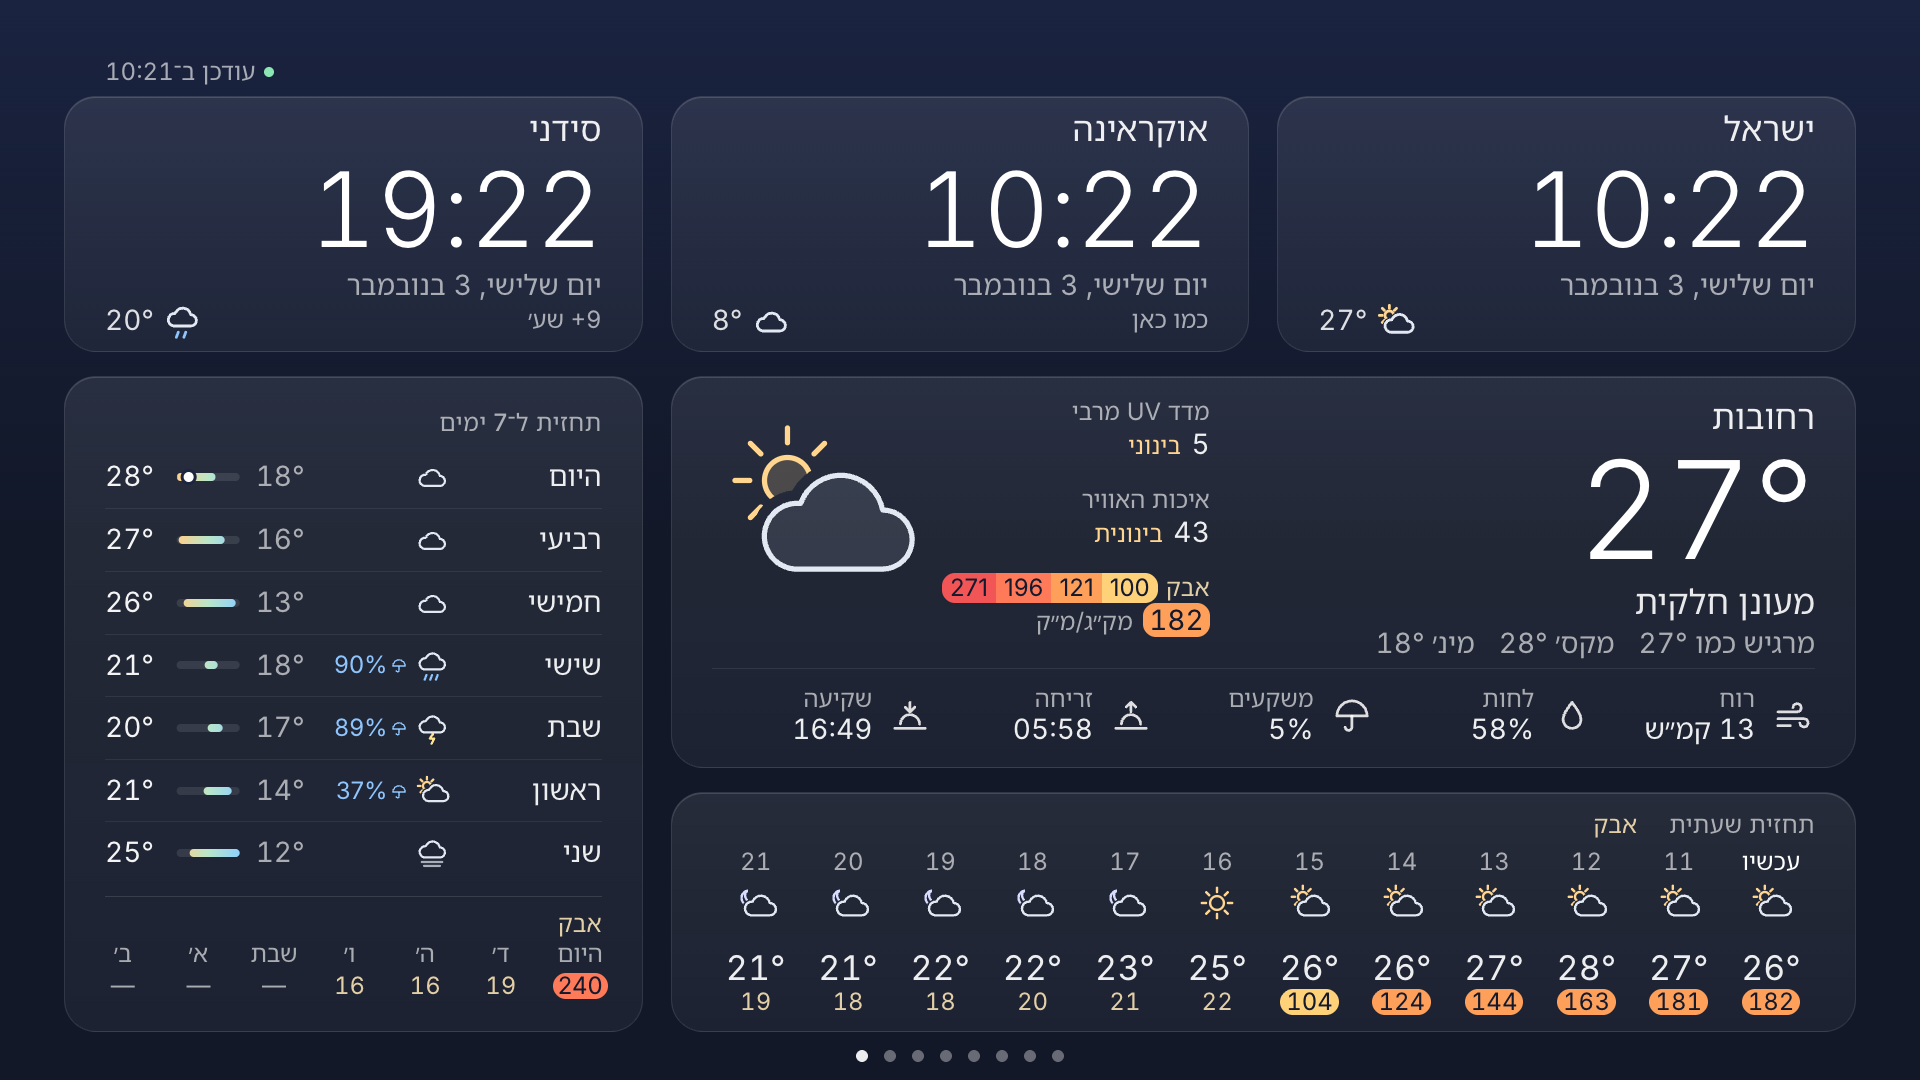
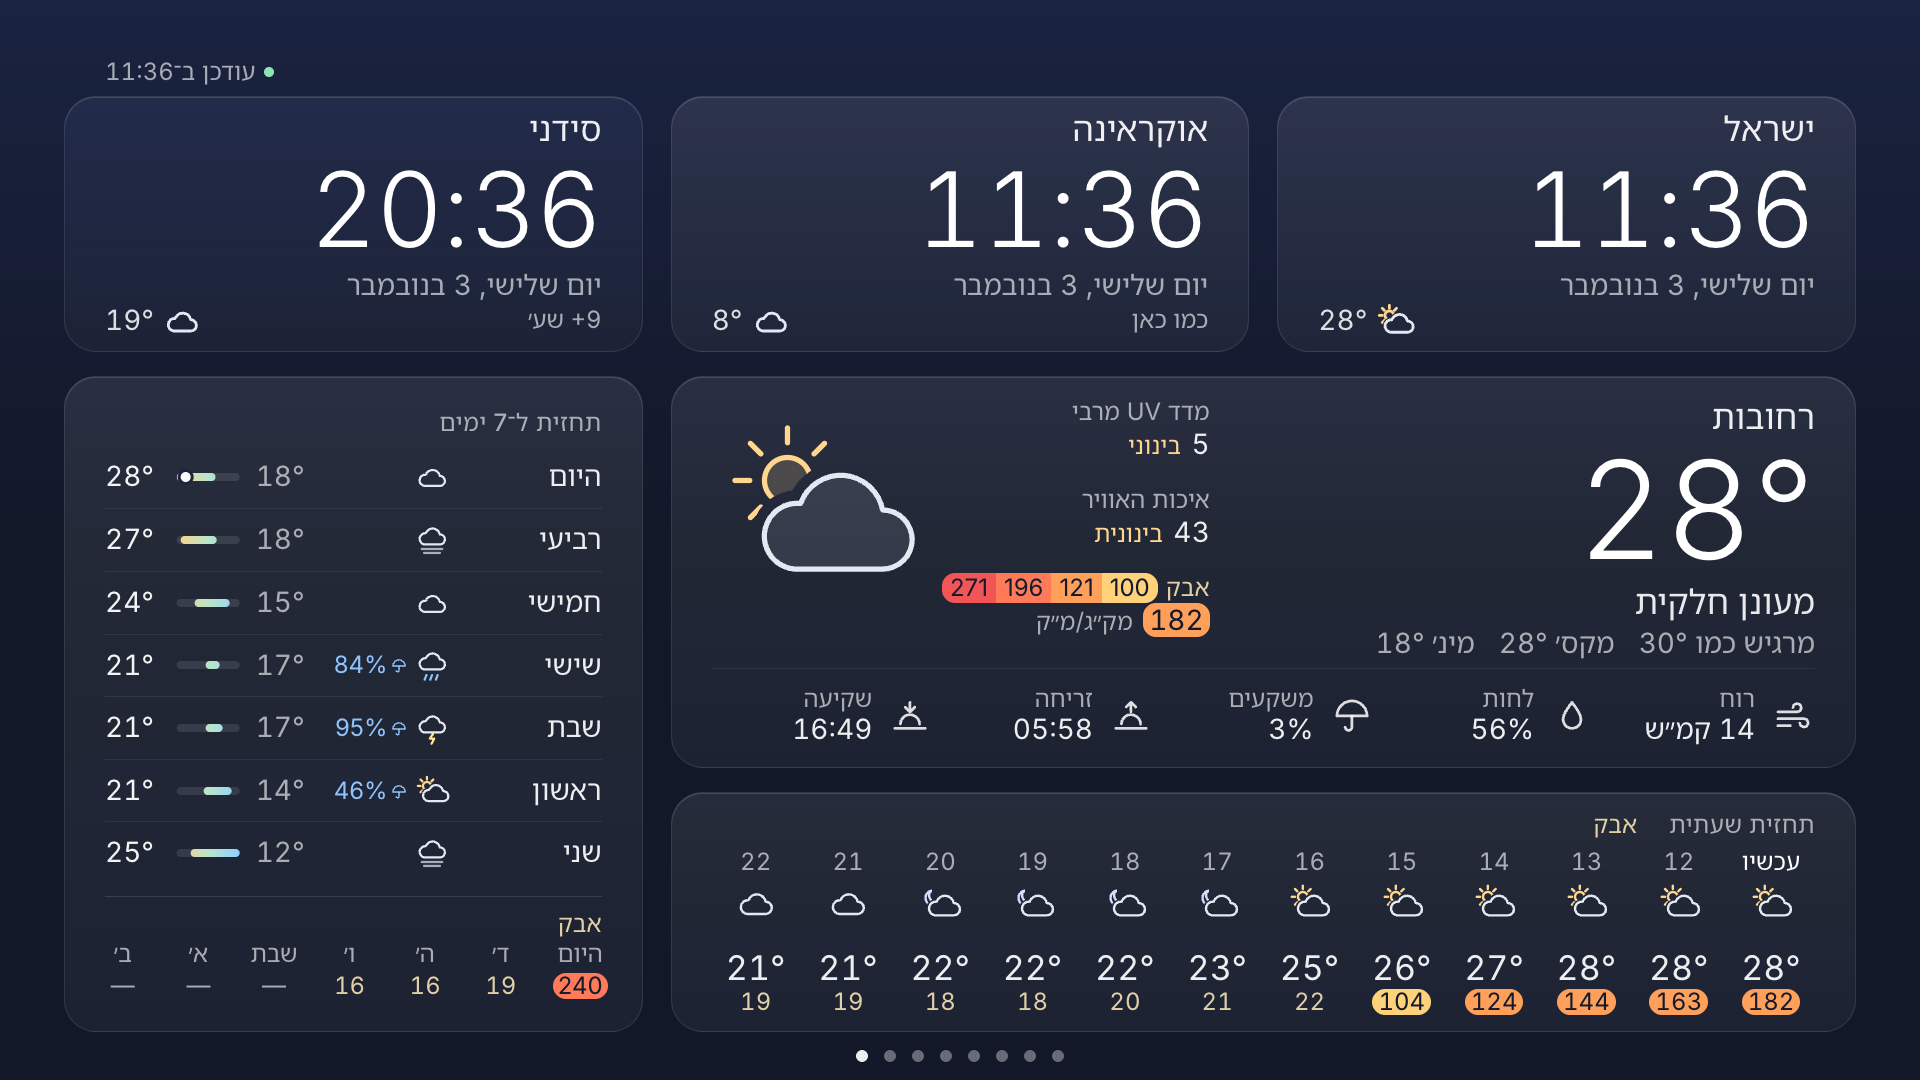
README: retake all screenshots live after batch 18
All 17 gallery shots and the hero retaken on 2026-11-03 at 11:36-11:38
with tools/readme-shots.mjs --live (graded khamsin colours, status
top-right, Israel 7 days); caption times updated.

diff --git a/README.md b/README.md
@@ -57,12 +57,12 @@
   </tr>
   <tr><td align="center"><b>7 · Traffic map</b> — a real Mapbox picture</td><td align="center"><b>8 · Alerts</b> — home, nearby, recent alerts in Israel</td></tr>
   <tr>
-    <td><img src="docs/screenshots/he-alert.png" alt="A full-screen deep-red alert in Hebrew: rocket and missile fire, Rehovot, since 01:32, enter the protected space and stay 10 minutes"></td>
+    <td><img src="docs/screenshots/he-alert.png" alt="A full-screen deep-red alert in Hebrew: rocket and missile fire, Rehovot, since 11:37, enter the protected space and stay 10 minutes"></td>
     <td><img src="docs/screenshots/he-alert-preview.png" alt="The alert preview in Hebrew: the same overlay under a white band saying this is an alert test, not a real alert"></td>
   </tr>
   <tr><td align="center"><b>The alert</b> — the Alerts screen opens by itself</td><td align="center"><b>The alert preview</b> — the blue key, clearly not real</td></tr>
   <tr>
-    <td><img src="docs/screenshots/he-banner.png" alt="The home screen in Hebrew during an alert at home: a slim red banner at the top says alert in Rehovot since 10:22"></td>
+    <td><img src="docs/screenshots/he-banner.png" alt="The home screen in Hebrew during an alert at home: a slim red banner at the top says alert in Rehovot since 11:38"></td>
     <td><img src="docs/screenshots/he-city.png" alt="The home-city picker in Hebrew: a list of Israeli cities with their English names, Rehovot ticked, arrows to move and OK to choose"></td>
   </tr>
   <tr><td align="center"><b>Alert banner</b> — stays on top of every other screen</td><td align="center"><b>Home city</b> — OK opens the picker</td></tr>
@@ -83,12 +83,12 @@
   <tr><td align="center">Русский · Рынки</td><td align="center">Українська · Ринки</td></tr>
 </table>
 
-<sub>Screenshots at 1920×1080 in desktop Chrome (<code>tools/readme-shots.mjs --live</code>), taken on 3 November 2026: at 01:31–01:33, and at 10:21–10:22 for the five shots that show the home or Israel weather (below).
-<b>Live</b> (the real answers at that moment): the news (Ynet, Globes, Українська правда, Економічна правда, at 01:32–01:33),
+<sub>Screenshots at 1920×1080 in desktop Chrome (<code>tools/readme-shots.mjs --live</code>), taken on 3 November 2026 at 11:36–11:38.
+<b>Live</b> (the real answers at that moment): the news (Ynet, Globes, Українська правда, Економічна правда, at 11:36–11:37),
 the Markets (Yahoo Finance and open.er-api), Shabbat and holidays (Hebcal), the traffic routes and the traffic map (Mapbox), the
-Alerts screen (Pikud HaOref's live feed and its recent-alerts history, both empty at 01:32: no alerts in the last 7 days), and the
+Alerts screen (Pikud HaOref's live feed and its recent-alerts history, both empty at 11:37: no alerts in the last 7 days), and the
 weather on every screen (Open-Meteo). <b>Recorded and demo air</b> on the home and Israel weather screens and on the banner and
-city-picker shots over the home screen (taken at 10:21–10:22, with their live weather), so they show a khamsin: Rehovot's dust is a synthetic khamsin laid over
+city-picker shots over the home screen (with their live weather), so they show a khamsin: Rehovot's dust is a synthetic khamsin laid over
 its recorded forecast (khamsin pills in the hours and in the 7-day dust band, each in its grade's colour, the one key — the grades «100 121 196 271» — lit on the current card, whose reading sits on its own grade's pill), and Beer Sheva's
 185 µg/m³ day is its real recorded forecast. <b>Demo alert:</b> there was no real alert, so the full-screen alert and the red
 banner show Pikud HaOref's recorded Rehovot alert drawn at the shot's time; the blue-key preview is the app's own built-in
